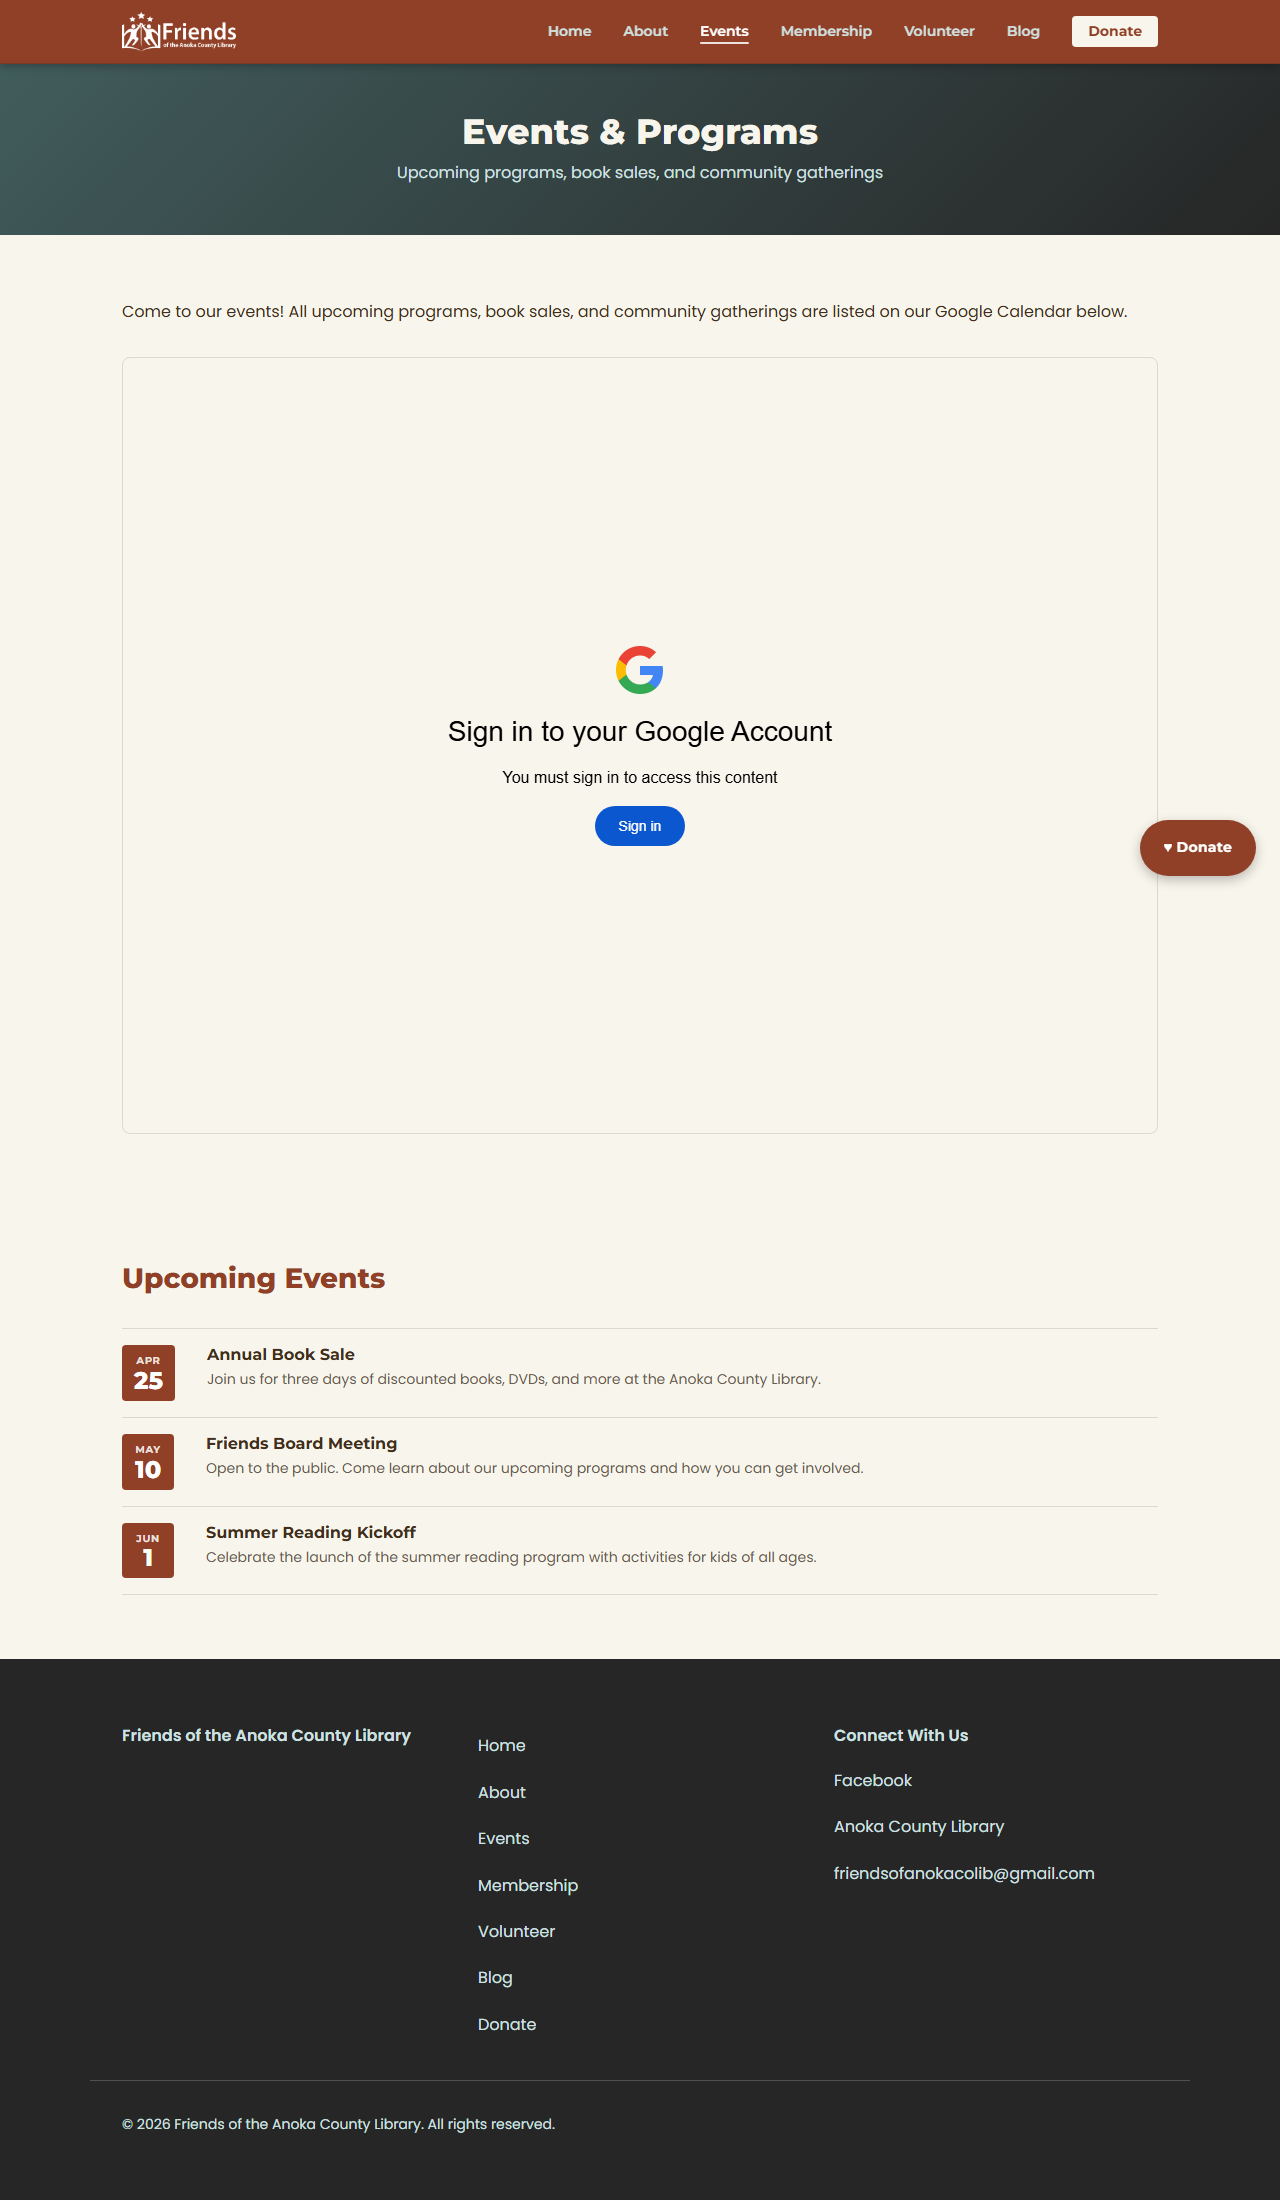
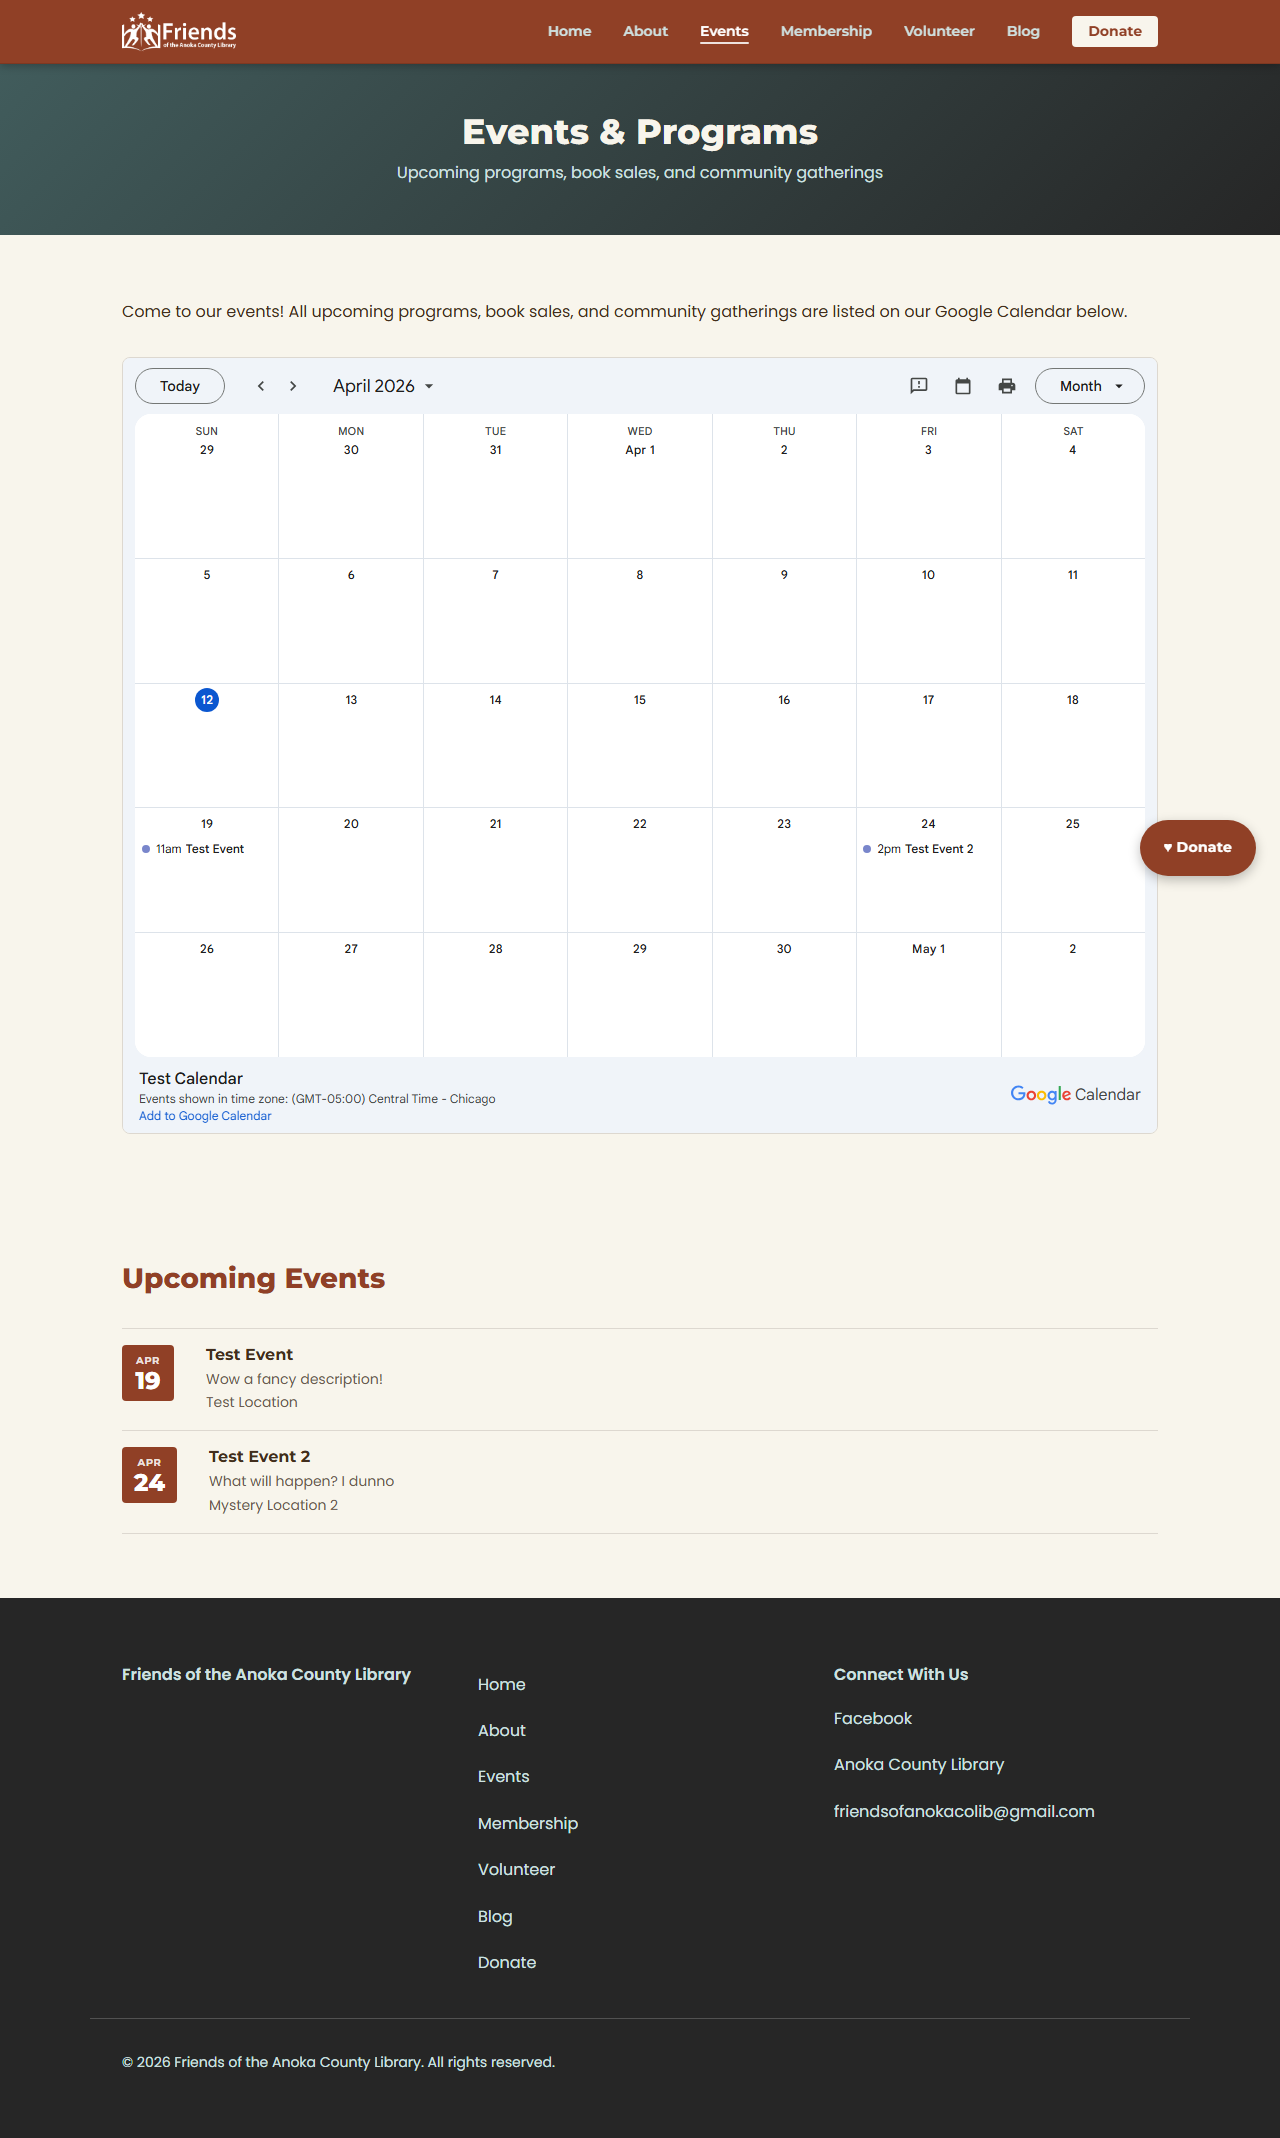
chore: update screenshots and events.html after calendar wiring

diff --git a/events.html b/events.html
@@ -86,6 +86,8 @@
             </div>
             <div class="event-details">
               <h3 class="event-title">Test Event</h3>
+              <p class="event-desc">Wow a fancy description!</p>
+              <p class="event-desc" style="font-size:0.875rem;color:var(--color-text-muted);">Test Location</p>
             </div>
           </li>
           <li class="event-item">
@@ -95,6 +97,8 @@
             </div>
             <div class="event-details">
               <h3 class="event-title">Test Event 2</h3>
+              <p class="event-desc">What will happen? I dunno</p>
+              <p class="event-desc" style="font-size:0.875rem;color:var(--color-text-muted);">Mystery Location 2</p>
             </div>
           </li>
 <!-- BUILD:EVENTS_END -->
